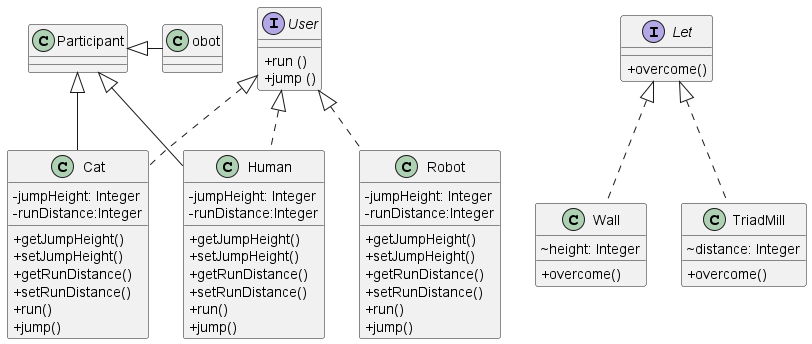
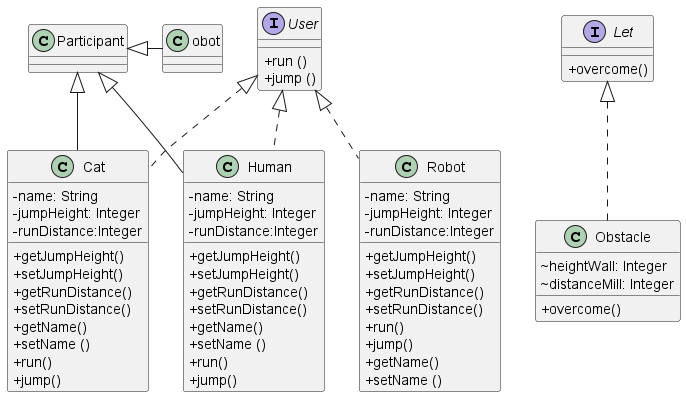
Third fixed

diff --git a/src/hilleluser/Main.java b/src/hilleluser/Main.java
@@ -2,18 +2,30 @@ package hilleluser;
 
 public class Main {
     public static void main(String[] args) {
+         Participant p1 = new Human("John", 5, 100);
+         Participant p2 = new Human("Bill", 2, 500);
+         Participant p3 = new Cat ("Barsik", 5, 250);
+         Participant p4 = new Cat("Murzik", 4, 500);
+         Participant p5 = new Robot("R2D2", 9, 1500);
+        Participant p6 = new Robot("C3PO", 15, 3000);
+        
+        Let le1 = new Obstacle(3, 150);
+        Let le2 = new Obstacle(5, 250);
+        Let le3 = new Obstacle(7, 250);
+        Let le4 = new Obstacle(2, 100);
+        Let le5 = new Obstacle(10, 3000);
+        Let le6 = new Obstacle(5, 2500);
 
 
-        Participant[] participants = {new Human(3, 3000), new Human(2, 2000),
-                new Cat(5,1500), new Cat(4,2000),
-                new Robot(7,10000), new Robot(10,5000)};
 
-        Let[] lets = {new Wall(6), new Wall(11), new Wall(15), new TriadMill(100),
-                new TriadMill(5000), new TriadMill(10000)};
+
+        Participant[] participants = {p1, p2, p3, p4, p5, p6};
+
+        Let[] lets = {le1, le2, le3, le4, le5, le6};
 
 
         for (Participant participant : participants)
-            for (Let let : lets) {
+                        for (Let let : lets) {
                 if (let.overcome(participant)) {
                     System.out.println("overcame obstacles");
                 } else

diff --git a/src/hilleluser/Robot.java b/src/hilleluser/Robot.java
@@ -1,12 +1,22 @@
 package hilleluser;
 
 public class Robot extends Participant implements User{
+    private String name;
     private Integer jumpHeight;
     private Integer runDistance;
 
-    public Robot(Integer jumpHeight, Integer runDistance) {
+    public Robot(String name,Integer jumpHeight, Integer runDistance) {
+        this.name = name;
         this.jumpHeight = jumpHeight;
         this.runDistance = runDistance;
+    }
+
+    public String getName() {
+        return name;
+    }
+
+    public void setName(String name) {
+        this.name = name;
     }
 
     @Override
@@ -29,7 +39,7 @@ public class Robot extends Participant implements User{
 
     @Override
     public void run() {
-        System.out.println(" to running ");
+        System.out.println(getName() + " to running ");
 
 
         }
@@ -37,7 +47,7 @@ public class Robot extends Participant implements User{
     @Override
     public void jump() {
 
-       System.out.println(" to jumping ");
+       System.out.println(getName() + " to jumping ");
 
     }
 

diff --git a/src/hilleluser/Human.java b/src/hilleluser/Human.java
@@ -1,13 +1,23 @@
 package hilleluser;
 
 public class Human extends Participant implements User {
+    private String name;
      private Integer jumpHeight;
     private Integer runDistance;
 
-    public Human(Integer jumpHeight1, Integer runDistance1) {
+    public Human(String name,Integer jumpHeight, Integer runDistance) {
         super();
+        this.name = name;
         this.jumpHeight = jumpHeight;
         this.runDistance = runDistance;
+    }
+
+    public String getName() {
+        return name;
+    }
+
+    public void setName(String name) {
+        this.name = name;
     }
 
     @Override
@@ -30,11 +40,11 @@ public class Human extends Participant implements User {
 
     @Override
     public void run() {
-        System.out.println(" to running ");
+        System.out.println(getName() + " to running ");
     }
 
     public void jump() {
-        System.out.println(" to jumping ");
+        System.out.println(getName() + " to jumping ");
     }
 
 

diff --git a/src/hilleluser/Cat.java b/src/hilleluser/Cat.java
@@ -1,12 +1,22 @@
 package hilleluser;
 
 public class Cat extends Participant implements User {
+    private String name;
     private Integer jumpHeight;
     private Integer runDistance;
 
-    public Cat(Integer jumpHeight, Integer runDistance) {
+    public Cat(String name,Integer jumpHeight, Integer runDistance) {
+        this.name = name;
         this.jumpHeight = jumpHeight;
         this.runDistance = runDistance;
+    }
+
+    public String getName() {
+        return name;
+    }
+
+    public void setName(String name) {
+        this.name = name;
     }
 
     @Override
@@ -30,14 +40,14 @@ public class Cat extends Participant implements User {
     @Override
     public void run() {
 
-        System.out.println(" to running ");
+        System.out.println(getName() + " to running ");
 
     }
 
     @Override
     public void jump() {
 
-        System.out.println(" to jumping ");
+        System.out.println(getName() + " to jumping ");
 
     }
 

diff --git a/src/hilleluser/Obstacle.java b/src/hilleluser/Obstacle.java
@@ -1,0 +1,22 @@
+package hilleluser;
+
+public class Obstacle implements Let {
+    Integer heightWall;
+    Integer distanceMill;
+
+
+
+    public Obstacle(Integer wall, Integer mill) {
+        this.distanceMill = mill;
+        this.heightWall = wall;
+    }
+
+    @Override
+    public boolean overcome(Participant participant) {
+
+        if (heightWall < participant.getJumpHeight() && distanceMill < participant.getRunDistance()) {
+            return true;
+        }  else
+            return false;
+    }
+}

diff --git a/src/hilleluser/Participant.java b/src/hilleluser/Participant.java
@@ -12,6 +12,14 @@ public abstract class Participant {
 
     }
 
+    public void setJumpHeight(Integer jumpHeight) {
+        this.jumpHeight = jumpHeight;
+    }
+
+    public void setRunDistance(Integer runDistance) {
+        this.runDistance = runDistance;
+    }
+
     public Integer getJumpHeight() {
         return jumpHeight;
     }
